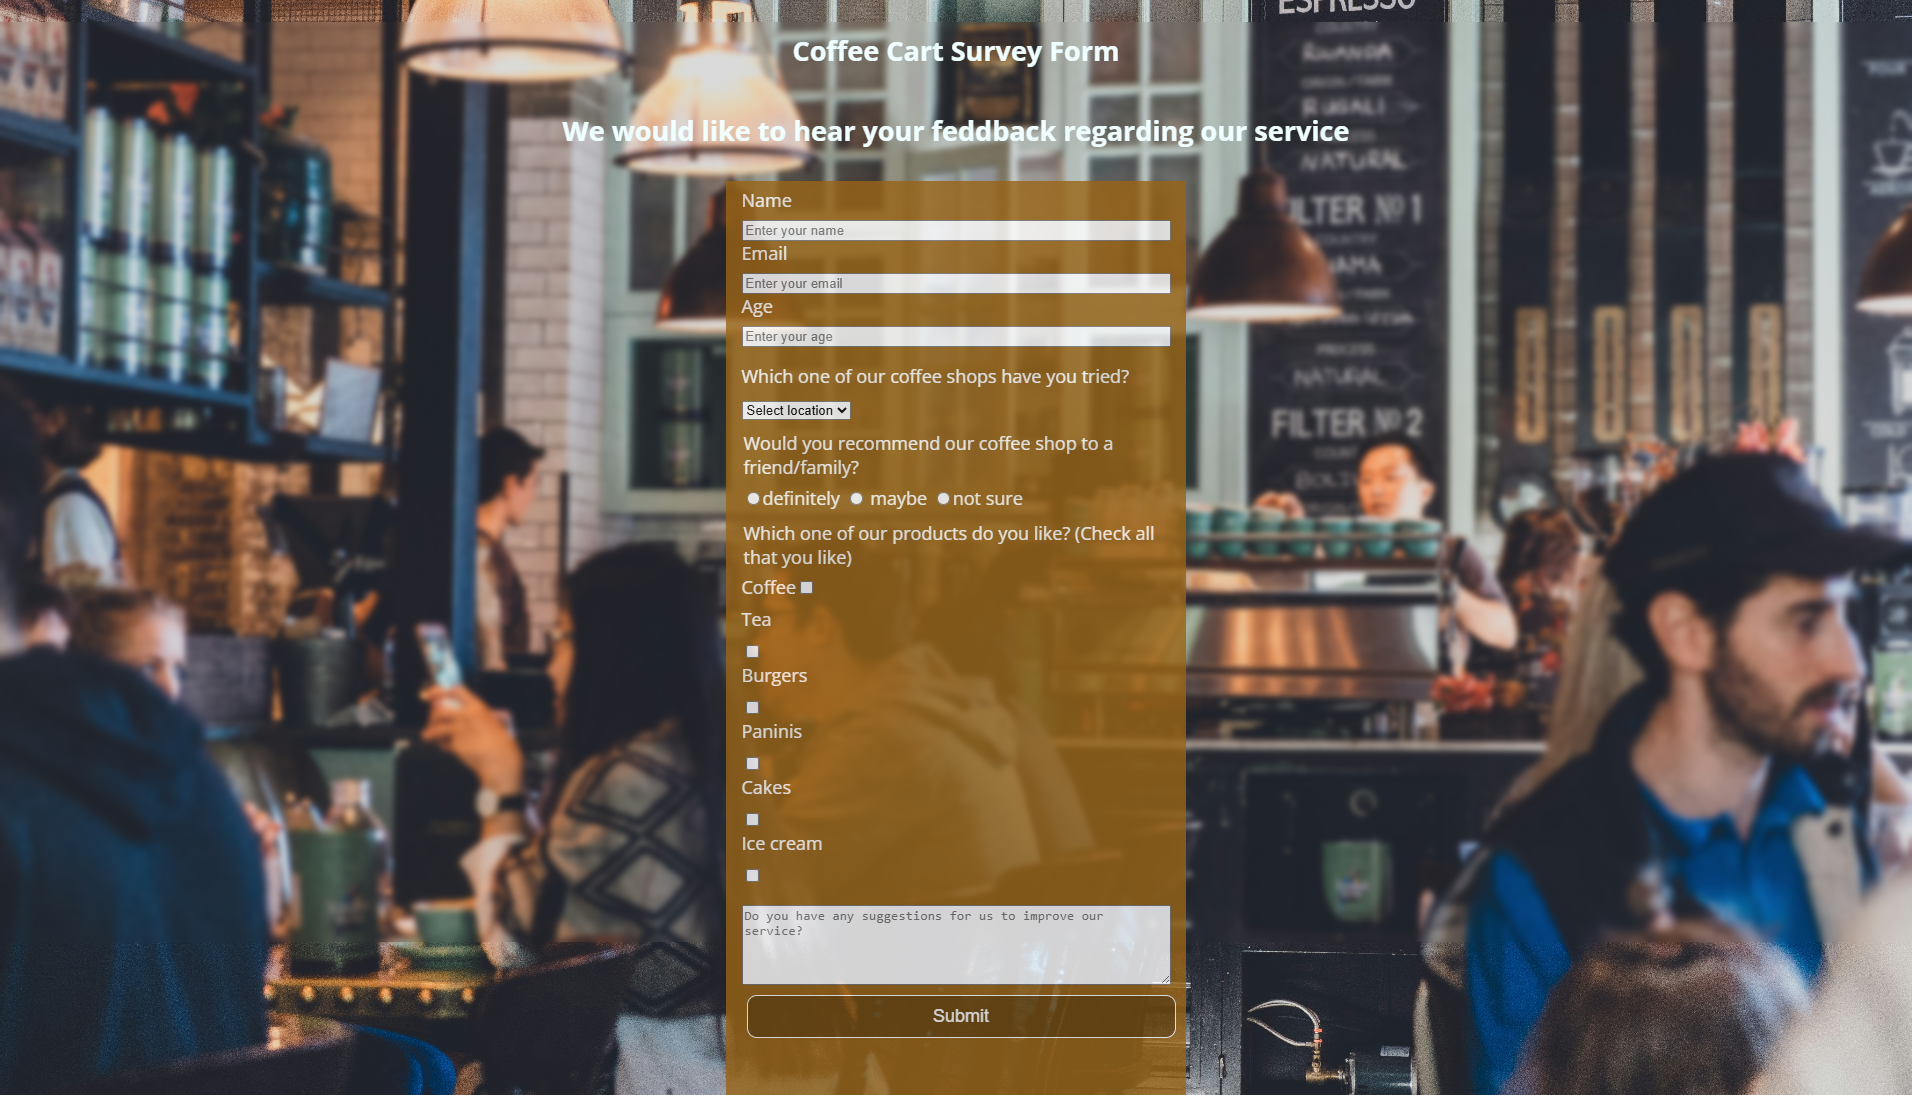
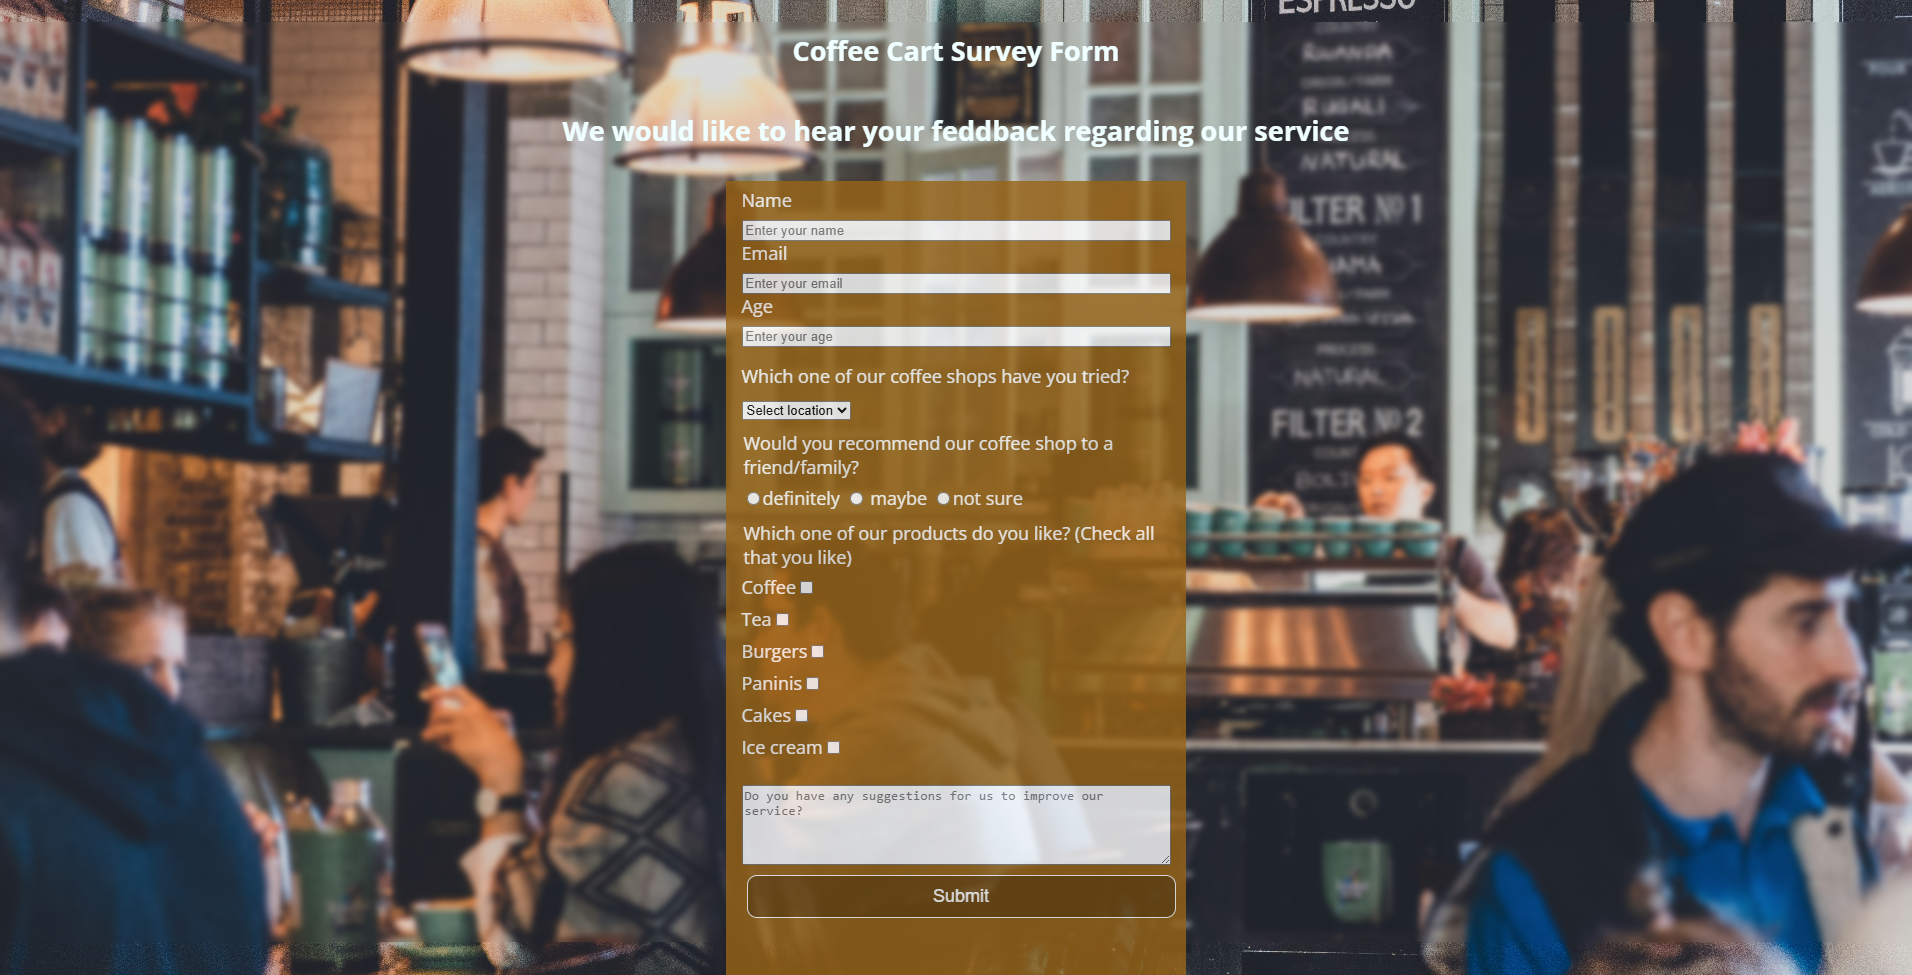
refactored code and added screenshot img

diff --git a/index.html b/index.html
@@ -47,17 +47,23 @@
                     <label for="coffee">Coffee
                         <input class="inline" type="checkbox" id="coffee" name="coffee"></input>
                     </label>
-                    <label for="tea">Tea</label>
-                    <input class="inline" type="checkbox" id="tea" name="tea"></input>
-                    <label for="burgers">Burgers</label>
-                    <input class="inline" type="checkbox" id="burgers" name="burgers"></input>
-                    <label for="paninis">Paninis</label>
-                    <input class="inline" type="checkbox" id="paninis" name="paninis"></input>
-                    <label for="cakes">Cakes</label>
-                    <input class="inline" type="checkbox" id="cakes" name="cakes"></input>
-                    <label for="icecream">Ice cream</label>
-                    <input class="inline" type="checkbox" id="icecream" name="icecream"></input>
-                </fieldset>
+                    <label for="tea">Tea 
+                        <input class="inline" type="checkbox" id="tea" name="tea"></input>
+                    </label>
+                    <label for="burgers">Burgers
+                        <input class="inline" type="checkbox" id="burgers" name="burgers"></input>
+                    </label>
+                    <label for="paninis">Paninis
+                        <input class="inline" type="checkbox" id="paninis" name="paninis"></input>
+                    </label>
+                    <label for="cakes">Cakes
+                        <input class="inline" type="checkbox" id="cakes" name="cakes"></input>
+                    </label>                   
+                    <label for="icecream">Ice cream
+                        <input class="inline" type="checkbox" id="icecream" name="icecream"></input>
+                    </fieldset>
+                    </label>
+                    
                 <fieldset id="written_feedback">
                     <textarea name="written feddback" id="textarea" placeholder="Do you have any suggestions for us to improve our service?"></textarea>
                     <button id="submit" type="submit">Submit</button>
